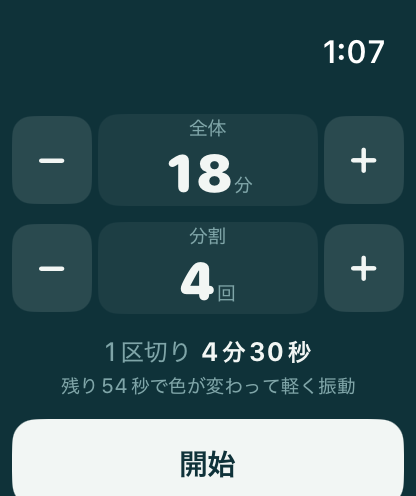
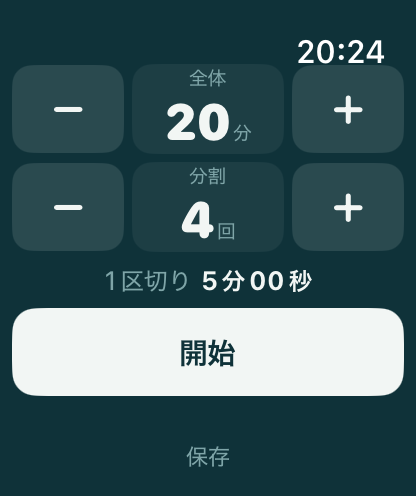
実機で触った指摘を反映する
設定画面:
- 開始ボタンがスクロールしないと押せなかった。安全領域に任せると高さが
  3分の1近く削られるので、実行画面と同じく自分で余白を決める形にした。
  40mm でも 46mm でも、開始ボタンまで1画面に収まる
- 上の余白は画面の高さの13%。実行画面の円環は角が丸いので18ptで足りたが、
  この画面は右上に四角い「＋」が来るので、システムの時計と正面衝突していた
- ＋ − のボタンを画面幅の27%まで広げた。そのぶん数値のセルは狭くなるが、
  グローブでも押せることのほうが、180という数字が大きく出ることより大事
- 「残り◯◯で色が変わって軽く振動」の説明行を消した。読む場面が無く、
  開始ボタンを1画面に収める邪魔になっていた

合図:
- 区切りの途中の合図を「残り20%」から「75%が終わったとき」へ移した
- 途中の合図を、区切りの終わりと同じ強さ（.notification を3回）にした。
  練習中は腕を振っているので、軽い1発では気づけない
- 全体の終わりだけは長さで区別する（3回 → 間 → 3回 ＋ .stop）。
  種類を変えても指では分からない
- 出さない条件は「残りぶんが2秒未満」のまま。割合が変わったので境目は
  1区切り8秒になった

使わなくなった TimeText.brief とそのテストを消した。

diff --git a/IntervalTimer/IntervalTimer/Views/SetupView.swift b/IntervalTimer/IntervalTimer/Views/SetupView.swift
@@ -23,12 +23,29 @@ struct SetupView: View {
     private var config: TimerConfig { TimerConfig(minutes: minutes, parts: parts) }
     private var book: PresetBook { PresetBook.decode(json: presetsJSON) }
 
+    /// 上に空ける高さ。**ここにシステムの時計が出る。**
+    ///
+    /// 実行画面の円環は角が丸いので18ptで足りたが、この画面は右上に四角い「＋」が来るので、
+    /// 時計と正面衝突する。画面の高さに比例させて、機種が変わっても当たらないようにする。
+    private var clockReserve: CGFloat {
+        WKInterfaceDevice.current().screenBounds.height * 0.13
+    }
+
+    /// ＋ − ボタンの幅。**数値のセルより、押しやすさを優先する。**
+    /// グローブでも外さずに押せることのほうが、180という数字が大きく出ることより大事。
+    private var stepWidth: CGFloat {
+        let w = WKInterfaceDevice.current().screenBounds.width
+        return max(40, min(58, w * 0.27))
+    }
+
     var body: some View {
         ZStack {
             Skin.normal.background.ignoresSafeArea()
 
+            // 安全領域に任せると高さが3分の1近く削られ、開始ボタンが画面の外へ出る。
+            // 外して自分で余白を決める（実行画面と同じ考え方）。
             ScrollView {
-                VStack(spacing: 8) {
+                VStack(spacing: 4) {
                     valueRow(label: "全体", unit: "分", field: .minutes,
                              value: $minutes, crown: $crownMinutes,
                              range: TimerConfig.minuteRange)
@@ -38,7 +55,6 @@ struct SetupView: View {
                              range: TimerConfig.partsRange)
 
                     preview
-                        .padding(.top, 2)
 
                     Button {
                         runner.start(config: config)
@@ -54,7 +70,6 @@ struct SetupView: View {
                     }
                     .buttonStyle(.plain)
                     .accessibilityIdentifier("start")
-                    .padding(.top, 2)
 
                     presetSection
 
@@ -66,10 +81,12 @@ struct SetupView: View {
                             .padding(.top, 6)
                     }
                 }
-                .padding(.horizontal, 4)
-                .padding(.vertical, 4)
+                .padding(.horizontal, 6)
+                .padding(.bottom, 6)
             }
+            .padding(.top, clockReserve)
         }
+        .ignoresSafeArea()
         .onAppear {
             // 保存してある値をつまみ側にも入れておく。ここは素の代入で済ませる。
             crownMinutes = Double(minutes)
@@ -111,7 +128,7 @@ struct SetupView: View {
     private func valueRow(label: String, unit: String, field: Field,
                           value: Binding<Int>, crown: Binding<Double>,
                           range: ClosedRange<Int>) -> some View {
-        HStack(spacing: 3) {
+        HStack(spacing: 4) {
             stepButton(systemName: "minus") {
                 set(value, crown, to: value.wrappedValue - 1, in: range)
             }
@@ -123,8 +140,10 @@ struct SetupView: View {
                     .foregroundStyle(Skin.normal.inkDim)
                 HStack(alignment: .firstTextBaseline, spacing: 1) {
                     Text("\(value.wrappedValue)")
-                        .font(.system(size: 28, weight: .heavy, design: .rounded))
+                        .font(.system(size: 27, weight: .heavy, design: .rounded))
                         .monospacedDigit()
+                        .minimumScaleFactor(0.6)
+                        .lineLimit(1)
                         .foregroundStyle(Skin.normal.ink)
                     Text(unit)
                         .font(.system(size: 11))
@@ -158,13 +177,13 @@ struct SetupView: View {
         }
     }
 
-    /// グローブでも押せるよう44pt。`minus.circle` のような細い記号は避ける。
+    /// グローブでも押せるよう、高さ44pt・幅は画面の27%。`minus.circle` のような細い記号は避ける。
     private func stepButton(systemName: String, action: @escaping () -> Void) -> some View {
         Button(action: action) {
             Image(systemName: systemName)
-                .font(.system(size: 16, weight: .bold))
+                .font(.system(size: 18, weight: .bold))
                 .foregroundStyle(Skin.normal.ink)
-                .frame(width: 40, height: 44)
+                .frame(width: stepWidth, height: 44)
                 .background(
                     RoundedRectangle(cornerRadius: 10, style: .continuous)
                         .fill(Skin.normal.ink.opacity(0.12))
@@ -184,23 +203,15 @@ struct SetupView: View {
     // MARK: - プレビュー
 
     private var preview: some View {
-        VStack(spacing: 2) {
-            HStack(spacing: 4) {
-                Text("1区切り")
-                    .foregroundStyle(Skin.normal.inkDim)
-                Text(TimeText.japanese(config.splitSeconds))
-                    .fontWeight(.semibold)
-                    .foregroundStyle(Skin.normal.ink)
-            }
-            .font(.system(size: 14))
-
-            Text(config.givesWarning
-                 ? "残り\(TimeText.brief(config.splitSeconds * TimerConfig.warningRatio))で色が変わって軽く振動"
-                 : "1区切りが短いので、20%の合図は出ません")
-                .font(.system(size: 11))
+        HStack(spacing: 4) {
+            Text("1区切り")
                 .foregroundStyle(Skin.normal.inkDim)
-                .multilineTextAlignment(.center)
+            Text(TimeText.japanese(config.splitSeconds))
+                .fontWeight(.semibold)
+                .foregroundStyle(Skin.normal.ink)
         }
+        .font(.system(size: 14))
+        .frame(minHeight: 20)
     }
 
     // MARK: - プリセット

diff --git a/IntervalTimerCore/Tests/IntervalTimerCoreTests/EngineTests.swift b/IntervalTimerCore/Tests/IntervalTimerCoreTests/EngineTests.swift
@@ -46,7 +46,7 @@ struct EngineTests {
         let log = run(&engine, from: base, seconds: 1200)
 
         let warnings = log.filter { $0.event == .warning }.map(\.at)
-        #expect(warnings == [240, 540, 840, 1140])   // 各区切りの残り1分（＝20%）
+        #expect(warnings == [225, 525, 825, 1125])   // 各区切りの75%が終わったところ
 
         let splits = log.compactMap { entry -> Double? in
             if case .splitEnded = entry.event { return entry.at } else { return nil }
@@ -65,10 +65,10 @@ struct EngineTests {
         }
     }
 
-    @Test func 二十パーセントの瞬間に警告の色になり0で戻る() {
+    @Test func 七十五パーセントの瞬間に色が変わり0で戻る() {
         let engine = TimerEngine(config: TimerConfig(minutes: 20, parts: 4), startedAt: base)
-        #expect(engine.snapshot(at: base.addingTimeInterval(239.9)).isWarning == false)
-        #expect(engine.snapshot(at: base.addingTimeInterval(240.0)).isWarning == true)
+        #expect(engine.snapshot(at: base.addingTimeInterval(224.9)).isWarning == false)
+        #expect(engine.snapshot(at: base.addingTimeInterval(225.0)).isWarning == true)
         #expect(engine.snapshot(at: base.addingTimeInterval(299.9)).isWarning == true)
         #expect(engine.snapshot(at: base.addingTimeInterval(300.0)).isWarning == false)   // 次の区切りへ
     }
@@ -133,7 +133,7 @@ struct EngineTests {
         #expect(s.displayIndex == 1)
         #expect(TimeText.clock(s.totalRemaining) == "20:00")
         // 20%通知のフラグも戻っているので、また鳴る
-        #expect(engine.advance(to: again.addingTimeInterval(240)).contains(.warning))
+        #expect(engine.advance(to: again.addingTimeInterval(225)).contains(.warning))
     }
 
     // MARK: - 9. 割り切れない設定
@@ -184,14 +184,14 @@ struct EngineTests {
         let log = run(&engine, from: base, seconds: 300)
         // 途中の切れ目は無い。20%（残り1分）の警告と、終了だけ。
         #expect(log.filter { if case .splitEnded = $0.event { return true } else { return false } }.isEmpty)
-        #expect(log.filter { $0.event == .warning }.map(\.at) == [240])
+        #expect(log.filter { $0.event == .warning }.map(\.at) == [225])
         #expect(log.filter { $0.event == .finished }.map(\.at) == [300])
     }
 
     // MARK: - 11. 短すぎる区切りでは20%通知を出さない
 
-    @Test func 一分十二分割では二十パーセント通知が出ない() {
-        let config = TimerConfig(minutes: 1, parts: 12)   // 1区切り5秒 → 20%は1秒
+    @Test func 一分十二分割では途中の合図が出ない() {
+        let config = TimerConfig(minutes: 1, parts: 12)   // 1区切り5秒 → 残り25%は1.25秒
         #expect(config.givesWarning == false)
 
         var engine = TimerEngine(config: config, startedAt: base)
@@ -203,11 +203,11 @@ struct EngineTests {
         #expect(log.filter { $0.event == .finished }.count == 1)
     }
 
-    @Test func 二十パーセントが二秒ちょうどなら通知は出る() {
-        // 1区切り10秒 → 20%は2.0秒。「2秒未満なら出さない」なので、これは出る側。
-        #expect(TimerConfig(minutes: 2, parts: 12).givesWarning == true)   // 120秒/12 = 10秒
-        #expect(TimerConfig(minutes: 1, parts: 6).givesWarning == true)    // 60秒/6 = 10秒
-        #expect(TimerConfig(minutes: 1, parts: 7).givesWarning == false)   // 60秒/7 ≒ 8.6秒
+    @Test func 残りが二秒ちょうどなら合図は出る() {
+        // 「残りぶんが2秒未満なら出さない」。区切り8秒がちょうど境目（8×0.25 = 2.0）。
+        #expect(TimerConfig(minutes: 2, parts: 12).givesWarning == true)   // 120秒/12 = 10秒 → 2.5秒
+        #expect(TimerConfig(minutes: 1, parts: 7).givesWarning == true)    // 60秒/7 ≒ 8.6秒 → 2.1秒
+        #expect(TimerConfig(minutes: 1, parts: 8).givesWarning == false)   // 60秒/8 = 7.5秒 → 1.9秒
     }
 
     // MARK: - 範囲

diff --git a/IntervalTimer/IntervalTimer/Services/Haptics.swift b/IntervalTimer/IntervalTimer/Services/Haptics.swift
@@ -1,53 +1,54 @@
 import WatchKit
 import IntervalTimerCore
 
-/// 3種類の通知。強さの差でどれが起きたか分かるようにする。
+/// 3種類の通知。
 ///
 /// | 場面 | 触覚 |
 /// |---|---|
-/// | 残り20% | `.click` を1発 |
-/// | 区切りが0 | `.notification` を2回（0.15秒あけて） |
-/// | 全体が0 | `.notification` を3回 ＋ `.stop` |
+/// | 区切りの75%が終わった | `.notification` を3回（0.13秒あけて） |
+/// | 区切りが0になった | 同じ（3回） |
+/// | 全体が0になった | 3回 → 少し空けて 3回 ＋ `.stop` |
 ///
-/// iPhone と違い `intensity` は指定できない。強さは「回数」でしか作れないので、
-/// 種類ではなく**回数で差をつける**。
+/// **区切りの途中と終わりは、わざと同じにしてある。**
+/// 練習中は腕を振っているので、弱い合図では気づけない。
+/// 「そろそろ終わる」も「終わった」も、同じ強さで確実に伝わるほうがいい。
+/// 全体の終わりだけは**長さ**で区別する。種類を変えても指では分からない。
+///
+/// iPhone と違い `intensity` は指定できない。強さは**回数**でしか作れない。
 ///
 /// なお watchOS の触覚は、アプリが前面にあるか、ワークアウトが動いている間しか鳴らない。
 /// 腕を下ろしたまま鳴らすには ``WorkoutKeeper`` が要る。
 @MainActor
 final class Haptics {
 
-    /// 直前に流した連打。新しい通知が来たら止める（終了の3連打に区切りの2連打が重ならないように）。
+    /// 直前に流した連打。新しい通知が来たら止める（終了の合図に区切りの合図が重ならないように）。
     private var running: Task<Void, Never>?
+
+    /// 連打の間隔。詰めすぎると1発に感じ、空けすぎると別々の合図に感じる。
+    private static let gap = Duration.milliseconds(130)
 
     func play(_ event: TimerEvent) {
         running?.cancel()
         switch event {
-        case .warning:
-            WKInterfaceDevice.current().play(.click)
-        case .splitEnded:
-            burst(.notification, times: 2, gap: 0.15)
+        case .warning, .splitEnded:
+            running = Task { await Self.burst(3) }
         case .finished:
             running = Task {
-                for i in 0..<3 {
-                    guard !Task.isCancelled else { return }
-                    WKInterfaceDevice.current().play(.notification)
-                    if i < 2 { try? await Task.sleep(for: .milliseconds(150)) }
-                }
-                try? await Task.sleep(for: .milliseconds(250))
+                await Self.burst(3)
+                try? await Task.sleep(for: .milliseconds(300))
+                guard !Task.isCancelled else { return }
+                await Self.burst(3)
                 guard !Task.isCancelled else { return }
                 WKInterfaceDevice.current().play(.stop)
             }
         }
     }
 
-    private func burst(_ type: WKHapticType, times: Int, gap: Double) {
-        running = Task {
-            for i in 0..<times {
-                guard !Task.isCancelled else { return }
-                WKInterfaceDevice.current().play(type)
-                if i < times - 1 { try? await Task.sleep(for: .seconds(gap)) }
-            }
+    private static func burst(_ times: Int) async {
+        for i in 0..<times {
+            guard !Task.isCancelled else { return }
+            WKInterfaceDevice.current().play(.notification)
+            if i < times - 1 { try? await Task.sleep(for: gap) }
         }
     }
 }

diff --git a/IntervalTimerCore/Sources/IntervalTimerCore/TimerConfig.swift b/IntervalTimerCore/Sources/IntervalTimerCore/TimerConfig.swift
@@ -35,14 +35,17 @@ public struct TimerConfig: Equatable, Hashable, Codable, Sendable {
         totalSeconds * Double(i.clamped(to: 0...parts)) / Double(parts)
     }
 
-    /// 20%通知を出すかどうか。
+    /// 区切りの途中の合図を出すかどうか。
     ///
-    /// 区切りが短いと「残り20%」が一瞬で過ぎてしまい、振動の意味がなくなる。
-    /// 仕様どおり、区切りの長さ×0.2 が2秒未満なら出さない。
+    /// 区切りが短いと合図が一瞬で過ぎてしまい、振動の意味がなくなる。
+    /// 残りぶんが2秒未満になる設定では出さない。
     public var givesWarning: Bool { splitSeconds * Self.warningRatio >= 2.0 }
 
-    /// 「残りこの割合以下で警告」。
-    public static let warningRatio = 0.2
+    /// 区切りの**75%が終わった**ところで合図を出す。つまり「残りこの割合」。
+    ///
+    /// 練習中は「そろそろ終わる」を先に知りたいので、区切りの終わりと同じ強さで鳴らす。
+    /// 弱い合図だと、動いている最中は気づけない。
+    public static let warningRatio = 0.25
 
     // MARK: - 保存からの読み出し
 

diff --git a/IntervalTimerCore/Sources/IntervalTimerCore/TimeText.swift b/IntervalTimerCore/Sources/IntervalTimerCore/TimeText.swift
@@ -28,15 +28,6 @@ public enum TimeText {
         return String(format: "%d:%02d", s / 60, sec)
     }
 
-    /// `1分` `45秒` `1分30秒`。文章の中に混ぜる用。ぴったりのときは秒を出さない。
-    public static func brief(_ seconds: Double) -> String {
-        let s = Int(ceil(max(0, seconds) - epsilon))
-        let m = s / 60, sec = s % 60
-        if m == 0 { return "\(sec)秒" }
-        if sec == 0 { return "\(m)分" }
-        return "\(m)分\(sec)秒"
-    }
-
     /// `5分00秒`。設定画面のプレビュー用。
     public static func japanese(_ seconds: Double) -> String {
         let s = Int(ceil(max(0, seconds) - epsilon))

diff --git a/IntervalTimerCore/Tests/IntervalTimerCoreTests/TimeTextTests.swift b/IntervalTimerCore/Tests/IntervalTimerCoreTests/TimeTextTests.swift
@@ -48,14 +48,6 @@ struct TimeTextTests {
         #expect(TimeText.clock(1200.0 - 0.0) == "20:00")
     }
 
-    @Test func 文章に混ぜる表記はぴったりなら秒を出さない() {
-        #expect(TimeText.brief(60) == "1分")
-        #expect(TimeText.brief(300) == "5分")
-        #expect(TimeText.brief(45) == "45秒")
-        #expect(TimeText.brief(90) == "1分30秒")
-        #expect(TimeText.brief(0) == "0秒")
-    }
-
     @Test func プレビューの日本語表記() {
         #expect(TimeText.japanese(300) == "5分00秒")
         #expect(TimeText.japanese(140) == "2分20秒")

diff --git a/README.md b/README.md
@@ -41,6 +41,19 @@ SPEC.md                     実装仕様
 そのぶん、**アプリ側の状態は「本当に変わった瞬間」しか動かさない**（区切り・警告・停止だけ）。
 区切りの判定とハプティクスは自前の0.1秒ループでやる。
 
+## 区切りの合図
+
+| いつ | 触覚 | 画面 |
+|---|---|---|
+| 区切りの**75%が終わった**とき | `.notification` を3回 | 地の色が明るい琥珀へ反転 |
+| 区切りが**0**になったとき | 同じ（3回） | 通常の色へ戻り、次の区切りへ |
+| 全体が**0**になったとき | 3回 → 少し空けて3回 ＋ `.stop` | 終了画面（いちばん明るい） |
+
+**途中と終わりをわざと同じ強さにしてある。** 練習中は腕を振っているので、
+弱い合図では気づけない。全体の終わりだけは**長さ**で区別する。種類を変えても指では分からない。
+
+1区切りが短い設定では途中の合図を出さない（残りぶんが2秒未満になるとき。区切り8秒が境目）。
+
 ## 画面の作り
 
 実行中は、**区切りぶんに分かれた円環**の中に数字を置く。1本の弧が1区切りで、
